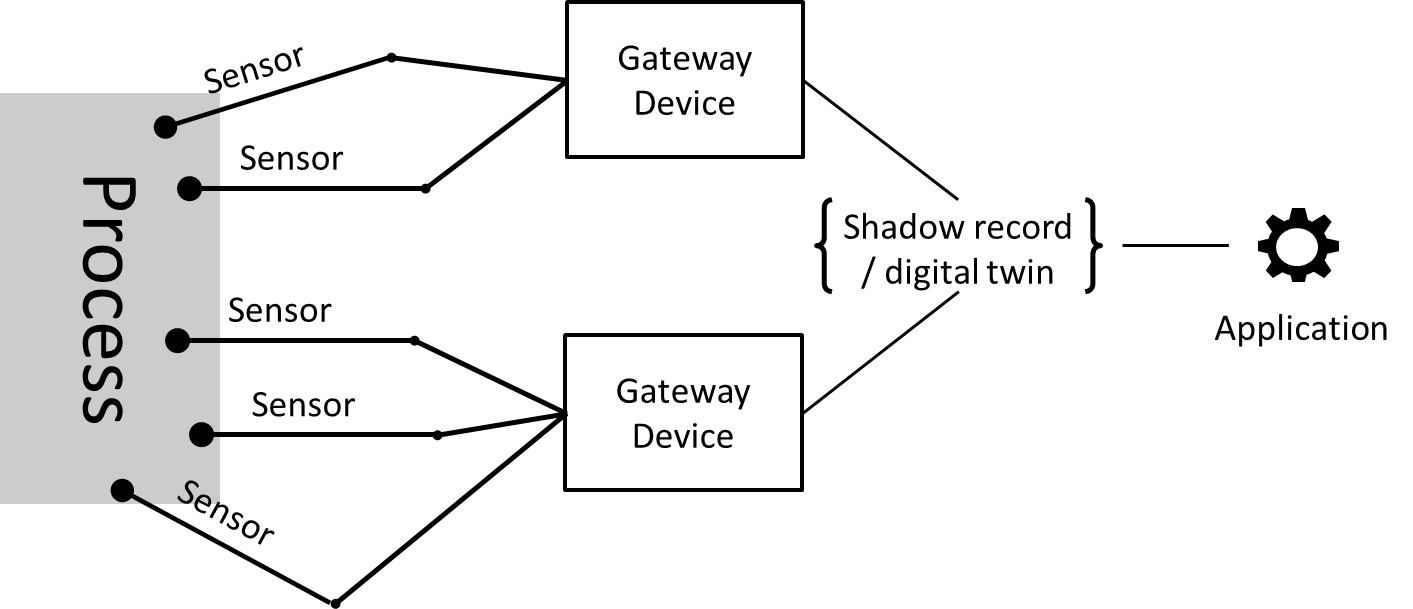
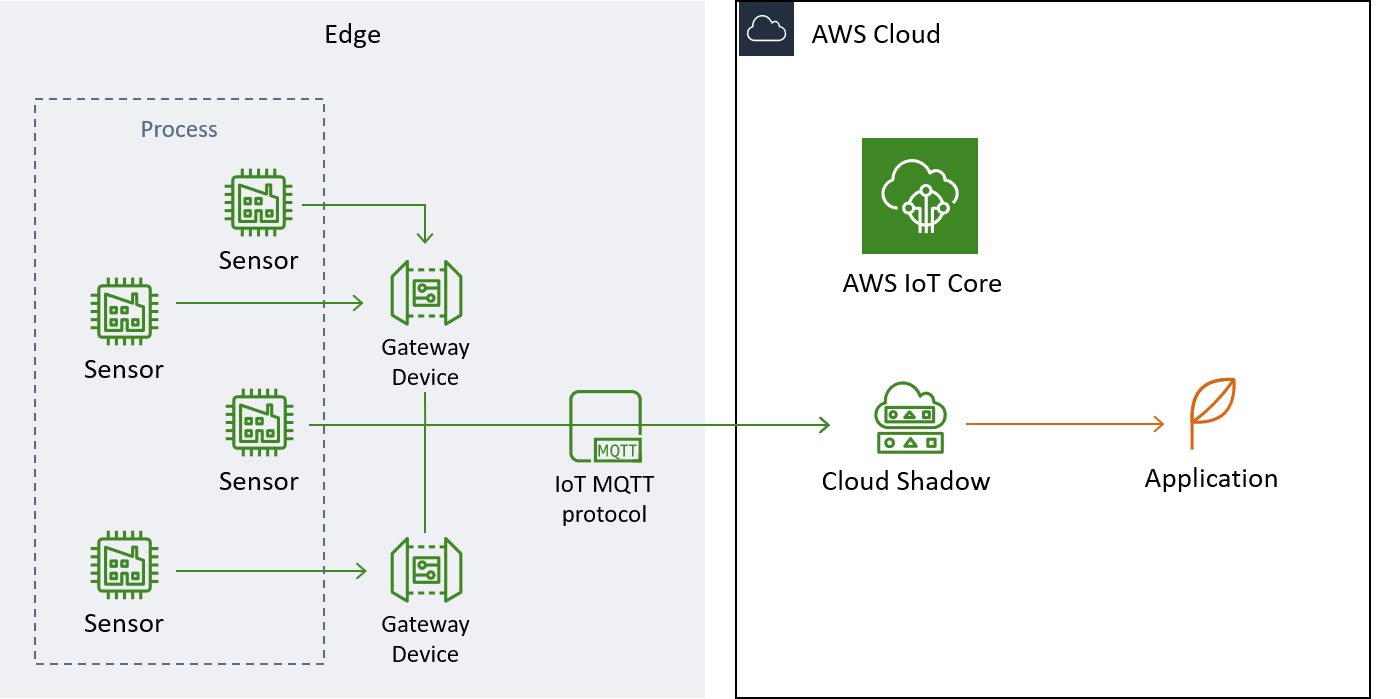
image overhaul

diff --git a/greengrass.md b/greengrass.md
@@ -1,10 +1,18 @@
 # Build an Edge with Greengrass
-It is time to create an edge, to take advantage of the compute that is available right where the data is gathered. Even if you use the AWS IoT services, there are several ways and plenty of 3<sup>rd</sup> party software you could apply for device management and creating an edge. The AWS offering is Greengrass, a piece of software running on your device and an accompanying cloud service. In this demonstration, we introduce key concepts in the context of an IoT edge using Greengrass.<br>
+It is time to create an edge, to take advantage of the compute that is available right where the data is gathered. Even if we use the AWS IoT services, there are several ways and plenty of 3<sup>rd</sup> party software we could apply for device management and creating an edge. The AWS offering is Greengrass, a piece of software running on our gateway device and an accompanying cloud service. In this demonstration, we introduce key concepts in the context of an IoT edge using Greengrass.<br>
 In this demonstration we will
 - Install AWS Greengrass Core on our Raspberry Pi
 - Register the Pi as a Core Device in the AWS Greengrass console
 - Connect a our sensor as a Thing through Greengrass, sending data to AWS IoT
-- Define a calculation in the cloud and deploy it onto the edge
+- Define a calculation in the cloud and deploy it onto the edge using a Lambda function in Greengrass
+<br>
+<div align="center">
+	<img width=500 src="images/greengrass_group_architecture.png" alt="iot setup">
+    <br>
+    This is the architecture we are building in this demonstration.
+	<br>
+</div>
+
 # Motivation
 When you walk through the demonstration it might seem like a lot of hassle and extra steps to go through before data is flowing and we reach what is essentially the same state as in previous demonstrations, where we just [published](publishing.md) readings and [subscribed](pubsub.md) directly in the script that also queried our sensor. Indeed, Greengrass is not intended for use with a single sensor. Imagine, however, that you are managing hundreds of sensors on a factory floor. The factory might be far away, or the gowning procedure might prohibit frequent visits, but even if your desk is right next to the manufacturing line, you still do not want to physically go there each time you deploy changes to sensor data streams, restart devices, define new signal processing, or update software. Greengrass allows you to define functionality in the cloud and deploy it to your device with a click.<br>
 Another important aspect of your IoT application to consider is cost. It is tempting to just send all raw data to storage in the cloud. Cloud storage is indeed inexpensive, but it is not free. What is worse, however, is the cost of compute. Cloud compute offers unprecedented flexibility, but it is expensive, so we generally want to use it to handle loads with varying intensity or low predictability, e.g. for hosting the application that uses data from the IoT setup. As an example of a case where you might quickly incur a large and unnecessary bill, imagine a set of vibration sensors. Vibration sensors are useful for predictive maintenance applications, since the patterns in vibrations from components like bearings and motors might be good predictors for the health of the component. An industrial grade vibration sensor might be able to sample acceleration thousands of times per second. If we were to store the data from just a few vibration sensors, we would quickly fill up enough storage to accomodate years worth of data from other sources like factory floor temperature and humidity. Furthermore, since it is not the accelleration itself but characteristics of the vibrations we are interested in, each time we use the data we would have to do signal processing and recalculate features. If we do that using cloud compute, we will work up quite a bill. The financially and environmentally responsible way to implement vibration sensors is to do the signal processing as close to the sampling point as possible and then only store the calculated features. We still want the flexibility of developing in the cloud and deploying to a remote device, however. While we will not work with signal processing in this demonstration, we will create an example of data transformation and deploy it from the cloud to the Raspberry Pi using Greengrass.<br>
@@ -53,12 +61,7 @@ sudo ./greengrassd start
 Greengrass Core will need to be running on your device in order to establish a connection between Core and the cloud. You can walk through the [AWS hello world cases](https://docs.aws.amazon.com/greengrass/latest/developerguide/module3-I.html) to familiarise yourself with Greengrass. We are going to do many of the same things in this demonstration but in a slightly different order and using our hardware setup instead of simulated devices.
 # Build a Greengrass Group
 During the setup, we created a Greengrass Group. The Group will eventually consist of one core device (in our case the Pi) and a variety of entities associated with the core. Our eventual goal is to have data sent from a thing that is associated with the core to the cloud. To reach that ambition we need to configure the thing, i.e. our sensor, a Lambda function that will move the data to the cloud, and subscriptions. We will go through each of these components in turn, starting with the thing.<br>
-<div align="center">
-	<img width=500 src="images/greengrass_group.png" alt="iot setup">
-    <br>
-    This is the architecture we are building, albeit with just one sensor.
-	<br>
-</div>
+
 
 ## Associate a Thing with a Greengrass Group
 To associate our thing, the sensor, with the core, we follow the [guidelines](https://docs.aws.amazon.com/greengrass/latest/developerguide/device-group.html "register a thing in Greengrass"), and go to AWS IoT > Greengrass > Groups, choose the group we just created, go to Devices, and click "Add Device". The creation procedure is similar to the procedure for any other Thing registered in AWS IoT. Indeed, after registering the device, you will be able to find it under the AWS IoT > Manage tab and you are even able to associate existing devices with a core. I actually reused the device from the [publishing](publishing.md#registering-the-sensor-in-iot-core) demonstration for this demo.<br>
@@ -225,19 +228,19 @@ This is all we need to republish. The full example with a few extra frills, such
 To create a Lambda function, we navigate to the AWS Lambda console. Under 'Functions' we click 'Create Function'.<br>
 In the wizard, choose 'Author from scratch', give your function a name, and choose your Python runtime. I named mine 'repub_temp' and have been using Python 3.7 for the example. Then we click 'Create Function'. This might take a moment.<br>
 <div align="center">
-	<img src="images/lambda_create.png" alt="iot setup">
+	<img width=500 src="images/lambda_create.png" alt="iot setup">
 	<br>
 </div>
 
 The next thing we need to do is to prepare our code for the Lambda function. So leave the console for a little while and locate the Python script we just created. Now download the [Greengrass SDK](https://github.com/aws/aws-greengrass-core-sdk-python/tree/master/greengrasssdk) folder. You only need the 'greengrasssdk' folder, not the examples, docs, etc. Now package the Greengrass SDK and the Python script into a .zip.<br>
 <div align="center">
-	<img src="images/lambda_package.png" alt="iot setup">
+	<img width=500 src="images/lambda_package.png" alt="iot setup">
 	<br>
 </div>
 
 Now jump back to the console and scroll down to the 'Function Code' window. In the 'Code entry type' dropdown, select the 'Upload a .zip file' option and upload the -zip file we just created. Also make sure to change the Handler to `<function file>.<your handler function>`, in the case of this example, it is `greengrass_simple_lambda.function_handler`. Click 'Save' to save the changes.
 <div align="center">
-	<img src="images/lambda_function_code.png" alt="iot setup">
+	<img width=500 src="images/lambda_function_code.png" alt="iot setup">
 	<br>
 </div>
 
@@ -249,7 +252,7 @@ Now scroll up and, under the 'Actions' dropdown, select 'Publish new version'. Y
 
 Now go to 'Actions' again and select 'Create alias'. Give the alias a name and point it to the version you just created. Greengrass does not support pointers to the `$latest` version, so make sure to select a specific version.<br>
 <div align="center">
-	<img src="images/lambda_alias.png" alt="iot setup">
+	<img width=500 src="images/lambda_alias.png" alt="iot setup">
 	<br>
 </div>
 
@@ -257,7 +260,7 @@ Now that our Lambda has been fully defined, we need to associate it with the Gre
 ### Attach a Lambda to Greengrass
 Navigate to the Greengrass console. Go to 'Groups' and select your Greengrass group. Then go to the 'Lambdas' menu and click 'Add Lambda'.<br>
 <div align="center">
-	<img src="images/greengrass_lambda_add.png" alt="iot setup">
+	<img width=500 src="images/greengrass_lambda_add.png" alt="iot setup">
 	<br>
 </div>
 
@@ -267,7 +270,7 @@ That is it for the Lambda. Now the final piece of the puzzle is ensuring that da
 Subscriptions is the way to configure where what data goes inside the Greengrass group. They specify the pubsub verticies between the things and Lambdas of the group and offer filtering capabilities.<br>
 To set up a subscription, go to the Greengrass console. Go to 'Groups' and select your Greengrass group. Then go to the 'Subscriptions' menu and click 'Add Subscription'.
 <div align="center">
-	<img src="images/greengrass_subscription_add.png" alt="iot setup">
+	<img width=500 src="images/greengrass_subscription_add.png" alt="iot setup">
 	<br>
 </div>
 
@@ -275,13 +278,13 @@ When setting up at subscription we are asked to specify the source and the targe
 For this demonstration specifically, we want to set up a subscription from our thing which generates and publishes data locally to the Lambda function we created. The thing can be found under the 'Devices' tab and the function under the 'Lambdas' tab.<br>
 Clicking 'Next' the first time will spawn a topic filter box. This is an optional filter you can specify to make data flows even more dynamic. I have given an example here, but it is not neccessary for the purposes of this demonstration. Click 'Next' again and 'Finish' to create the subscription.
 <div align="center">
-	<img src="images/greengrass_subscription_tolambda.png" alt="iot setup">
+	<img width=500 src="images/greengrass_subscription_tolambda.png" alt="iot setup">
 	<br>
 </div>
 
 We need one more subscription, namely the one telling Greengrass that we are publishing data from the Lambda function to the Cloud. We set up another subscription; this time setting the Lambda function as the source and 'IoT Cloud' as the target. Again we can specify an optional filter.
 <div align="center">
-	<img src="images/greengrass_subscription_fromlambda.png" alt="iot setup">
+	<img width=500 src="images/greengrass_subscription_fromlambda.png" alt="iot setup">
 	<br>
 </div>
 
@@ -300,7 +303,7 @@ sudo ./greengrassd start
 
 Now we are ready to deploy. Fortunately it is very simple to deploy everything we have specified. From our group in the Greengrass console, we are always within sight of the 'Action' dropdown menu which has a 'Deploy' option that we will now click on and utilise. If all goes well the status of our device will go from 'Is pending' to 'In progress' to 'Successfully completed'.
 <div align="center">
-	<img src="images/greengrass_deploy.png" alt="iot setup">
+	<img width=150 src="images/greengrass_deploy.png" alt="iot setup">
 	<br>
 </div>
 
@@ -319,7 +322,7 @@ python3.7 greengrass_thing.py -e <AWS IoT custom endpoint> -r <root CA> -c <thin
 ```
 And let us quickly look at whether it is working by going to the IoT test client. If we have done everythin correctly, we should not see any data published on the local topic from the sensor device. Rather, we should see data from the topic `republish/reading` topic that we defined in the Lambda script. Let us see.
 <div align="center">
-	<img src="images/greengrass_test.png" alt="iot setup">
+	<img width=500 src="images/greengrass_test.png" alt="iot setup">
 	<br>
 </div>
 
@@ -360,13 +363,13 @@ Scroll down a bit, find the 'Alias configuration', and point the alias to the ve
 Before we deploy, the Lambda will need some additional configuring. Per default, any Lambda will timeout after 3 seconds, but ours will be running for at least 8 seconds to get an average CPU temperature. Furthermore, Lambda functions running in Greengrass to not have access to local resources under `/sys`. We will need to change these defaults.<br>
 Go to the Greengrass console and select the group. Under the Lambda menu, click the three dots in the upper right of the Lambda function, we just modified and select 'Edit configuration'.
 <div align="center">
-	<img src="images/greengrass_lambda_configure.png" alt="iot setup">
+	<img width=500 src="images/greengrass_lambda_configure.png" alt="iot setup">
 	<br>
 </div>
 
 Set the timeout to 10 seconds and enable access to `/sys`.
 <div align="center">
-	<img src="images/greengrass_lambda_configurations.png" alt="iot setup">
+	<img width=500 src="images/greengrass_lambda_configurations.png" alt="iot setup">
 	<br>
 </div>
 

diff --git a/README.md b/README.md
@@ -32,20 +32,51 @@ The simplest way to do IoT with AWS. We will register our sensor as a thing in A
 In this case the Raspberry Pi is simply simulating a microcontroller that will query the sensor and publish the result.<br><br>
 [Get started here](publishing.md "simple publishing case").
 Here is the full [example script](simple_publishing.py "simple publishing example").
+<div align="center">
+	<img width="500" src="images/publishing_architecture.png" alt="IoT overview">
+  <br>
+  Schematic of the architecture we are building in the demonstration of publishing.
+</div>
+
 ## 2) Publish and Subscribe
 In this case, we build upon the previous case and will construct a setup where our device will not just send data but also respond to messages sent to it.<br>
 The Raspberry Pi is still just simulating a microcontroller, but we start to see how compute at the edge is useful and can be managed with AWS IoT.<br><br>
 [Get started here](pubsub.md "simple pub/sub case"). Here is the full [example script](simple_pubsub.py "simple pubsub example").
+<div align="center">
+	<img width="500" src="images/pubsub_architecture.png" alt="pubsub overview">
+  <br>
+  Schematic of the architecture we are building in the demonstration of publishing and subscribing.
+</div>
+
 ## 3) Utilise Thing Shadows
 Using the Thing Shadow feature of AWS IoT, we will create a twin/shadow of our device in the cloud and update it whenever a new reading is available. You can use this cool feature to build a digital twin of your process.<br>
 The Raspberry Pi is still simulating a microcontroller that will query the sensor, but instead of just publishing the result, it will update the Shadow document of the Thing.<br><br>
 [Get started here](shadow.md "Shadow case"). Here is the full [example script](shadow.py "shadow example").
+<div align="center">
+	<img width=500 src="images/shadow_architecture.png" alt="iot setup">
+	<br>
+  Schematic of the architecture we are building in the demonstration of Shadow functionality.
+</div>
+
 ## 4) Build an Edge with Greengrass
 Now our Pi will act the part of gateway device. The gateway device effectively represents an edge that is manageable from the cloud and where data transformations or calculations can happen. This could be signal processing, edge analytics, or even machine learning models. Greengrass is the AWS software offering for gateway devices. In this demonstration we will set up Greengrass on the Pi, connect a thing, our sensor, to Greengrass, and deploy a calculation from the cloud to the edge using a Lambda function.<br><br>
 [Get started here](greengrass.md "Greengrass case"). Here is the full [example script for a local device](greengrass_thing.py "Example of Thing for Greengrass") and the [Lambda function](greengrass_sys_lambda.py "Lambda example") we will deploy into Greengrass Core.
+<div align="center">
+	<img width=500 src="images/greengrass_group_architecture.png" alt="iot setup">
+    <br>
+    This is the architecture we are building in the demonstration of Greengrass functionality.
+	<br>
+</div>
+
 ## 5) Advanced Greengrass Features
 In this final demonstration, we will combine everything from the previous demonstrations to deploy a machine learning model from the cloud into Greengrass and do inference at the edge. This requires us to explore additional advanced features and configurations of Greengrass, but shows how, with a few means and a bit of engineering, we can achieve quite complex functionality.<br><br>
 [Get started here](greengrass_ml.md "Advanced Greengrass case"). This demonstration uses the same [example script for a local device](greengrass_thing.py "Example of Thing for Greengrass") as the previous but has two new examples of Lambda functions, [including one](ml_inference_lambda.py "ML inference Lambda") doing machine learning inference.
+<div align="center">
+	<img width=500 src="images/greengrass_ml_architecture.png" alt="Greengrass ML Demo Architechture">
+	<br>
+    This is the architechture of the application we will build in the demonstration of advanced Greengrass Features.
+</div>
+
 # IoT with AWS IoT
 This section has a bit of theoretical context for the demonstrations. We will try to explain and understand some core concepts of internet of things in the context of an industrial setting and AWS IoT. 
 ### Things
@@ -53,7 +84,7 @@ Let us start with the so called Things. In an industrial setting, a thing is oft
 Given this vague definition of things, an obvious question arises for those who have been in the manufacturing game for a while. Manufacturing processes are usually associated with process control loops. These include connecting key process parameters to a process logic controller (PLC) that in turn controls actuators to regulate the process. An example would be the flow of water through a pipe, measured by a flow sensor and regulated by the opening or closing of a valve. The question is: are these control loops also IoT? The answer is that they could be. The process parameters and the state of the valve are all potential things that when connected to the internet become things in the internet of things. The key difference between IoT and a control loop would be the internet connection. The PLC is there to do process control, not neccessarily to send or store data, and connecting it to the internet could be a major risk for the manufacturing process. In IoT we use dedicated devices to buffer and send data to storage in the cloud or somewhere else.<br>
 AWS is our cloud of choice for this tutorial. In AWS IoT Core, you can [register](https://docs.aws.amazon.com/iot/latest/developerguide/create-aws-thing.html "how to register a thing in AWS IoT Core") and manage your things. A thing is the highest level of granularity, and it makes sense to register each parameter you measure as a seperate thing. You can then aggregate and manage hierarchies of things using [groups and types](https://docs.aws.amazon.com/iot/latest/developerguide/iot-thing-management.html "about managing hierarchies of things").
 <div align="center">
-	<img style='height: 70%; width: 70%; object-fit: contain' src="images/iot_overview.png" alt="iot setup">
+	<img width=500 src="images/iot_overview.png" alt="iot setup">
 	<br>
 </div>
 

diff --git a/shadow.md b/shadow.md
@@ -14,9 +14,9 @@ while true
 ```
 We will then look at the shadow document using the AWS IoT test functionality.
 <div align="center">
-	<img height="270" src="images/shadow_flow.png" alt="iot setup">
+	<img width=500 src="images/shadow_architecture.png" alt="iot setup">
 	<br>
-  This is a general view of how a Shadow fits into the larger IoT. In this demonstration, we will show how gateway devices and applications can interact with the Shadow record.
+  Schematic of the architecture we are building in this demonstration.
 </div>
 
 # Basics of Device Shadows
@@ -291,20 +291,20 @@ Congratulations! You now know how to set up a shadow for your device and you are
 If our application just listens to the `/update/accepted` we will have achieved nothing more by going through the Shadow compared to just plain publishing. The real power of Shadows is in always having the latest reading from our device available, while decoupling the device and the application.<br>
 Now that we are having the device update its Shadow each time a new reading is available, we can start having our application access that Shadow document whenever it needs it. We can always view the shadow document of our thing by going to AWS IoT > Manage > Things, then selecting our device and go to the 'Shadow' tab
 <div align="center">
-	<img src="images/aws_shadow_document.png" alt="shadow document">
+	<img width=500 src="images/aws_shadow_document.png" alt="shadow document">
   <br>
 </div>
 
 This is nice for demonstration and debugging purposes, but our application needs to access the document programatically. The MQTT protocol does not do requests, and operates using the publish and subscribe model only. So the way for our application to request the Shadow document on demand is to publish a request to a specific topic and subscribe to a response topic. Note that there is an alternative based on a REST API, which we will discuss in a [section](shadow.md#in-production) below, but for now we will stick to the MQTT way.
 By sending an empty request, `{}`, to the topic `$aws/things/yourDevice/shadow/get` our application can trigger the shadow to publish a copy of the current shadow document to the subject `$aws/things/yourDevice/shadow/get/accepted`. The easiest way to see it in action is by subscribing to the `$aws/things/yourDevice/shadow/get/#` topicfilter in the test console and then publish an empty message to `/get`. I gave it a try here
 <div align="center">
-	<img src="images/aws_shadow_get.png" alt="shadow get">
+	<img width=500 src="images/aws_shadow_get.png" alt="shadow get">
   <br>
 </div>
 
 This is also an excellent opportunity to explore what happens, when we do something unexpected. Here I published a string instead of a JSON, for instance:
 <div align="center">
-	<img src="images/aws_shadow_get_rejected.png" alt="shadow get">
+	<img width=500 src="images/aws_shadow_get_rejected.png" alt="shadow get">
   <br>
 </div>
 
@@ -312,12 +312,12 @@ The `/get` topic also has a `/rejected` subtopic that gives helpful error messag
 ## Delete the Shadow
 You might have guessed this next topic group. We now know how to update and get the shadow document. Now we just need to know how to delete it. By publishing an empty message to the topic `$aws/things/yourDevice/shadow/delete` we delete the shadow document for `yourDevice`. On successful deletion, a confirmation is published to `/delete/accepted` and a message is published to `/delete/rejected` otherwise. Let us try to delete the shadow, then try to get, and see what happens:
 <div align="center">
-	<img src="images/aws_shadow_delete.png" alt="shadow delete">
+	<img width=500 src="images/aws_shadow_delete.png" alt="shadow delete">
   <br>
 </div>
 <br>
 <div align="center">
-	<img src="images/aws_shadow_delete_get.png" alt="shadow delete get">
+	<img width=500 src="images/aws_shadow_delete_get.png" alt="shadow delete get">
   <br>
 </div>
 
@@ -374,6 +374,12 @@ This will send an update to the reported temperature state of the Shadow documen
 This section is not part of the demonstration as such. It is but a short discussion of some of the considerations we might take when bringing the Shadow feature into production. There are not many addtional considerations besides those discussed for [publishing](publishing.md#in-production) and [subscribing](pubsub.md#in-production), but here are some of them.
 ## Decouple Application and Data Stream
 In order for Shadows to be a boon and not just an added operational burden, it is important that we develop applications that utilise it properly. An example of an application that might benefit greatly from using Shadows is one that relies on machine learning models to predict outcomes for displaying or acting on. A machine learning algorithm needs all its features at the same time to produce a prediction, whereas the physical reality of our sensing equipment is that different features are reported at differing times and at different frequencies. Instead of having a large layer of business logic in front of the machine learning algorithm, the application could just serve the latest values as stored in the Shadow. This effectively decouples the data stream and the machine learning model, ensuring that our application can keep running even if a device is broken.
+<div align="center">
+	<img width=500 src="images/shadow_flow.png" alt="iot setup">
+	<br>
+  This is a general view of how a Shadow could fit into the larger IoT.
+</div>
+
 ## Shadow HTTP Interactions
 Chances are that we do not want our application to deal with the MQTT protocol. The publish subscribe model works well for the IoT part where data is flowing to and from multiple sources to multiple targets. Our application, however, often just needs the latest piece of data, and it is a bit of hassle to deal with an MQTT client, publishing, and subscribing just to get a single piece of data once in a while.<br>
 One of the major advantages of the Shadow functionality is that each Shadow exposes a [REST API](https://docs.aws.amazon.com/iot/latest/developerguide/device-shadow-rest-api.html) to which we can send regular HTTP requests and retrieve data.<br>

diff --git a/publishing.md b/publishing.md
@@ -11,10 +11,10 @@ while true
 ```
 For the demonstration we will be using the Bosch BME680 air quality sensor connected to a Raspberry Pi model 3B. The BME680 does four different measurements, but for this case we will only be measuring and publishing the temperature. The Pi is just there to query the sensor and run the AWS IoT SDK. It essentially plays the part of a microcontroller, and so anything we accomplish here can be done with a microcontroller or any other compute device. In the final section of this demonstration we will discuss some of the additional considerations for a similar setup in an actual industrial setting.
 <div align="center">
-	<img height="200" src="images/iotaws_overview.png" alt="IoT overview">
+	<img height="200" src="images/publishing_architecture.png" alt="IoT overview">
 	<img height="200" src="images/hardware_setup.jpg" alt="Hardware setup">
   <br>
-  Schematic of the setup we are emulating in this demonstration and a picture of the actual hardware I used for developing the examples.
+  Schematic of the architecture we are building in this demonstration and a picture of the actual hardware I used for developing.
 </div>
 
 # Registering the Sensor in IoT Core
@@ -183,9 +183,17 @@ Published topic bme680/temperature: {"status": "success", "timestamp_utc": "2020
 Published topic bme680/temperature: {"status": "success", "timestamp_utc": "2020-02-15T16:43:18.519356Z", "value": 21.57999999999999, "sequence": 27}
 ```
 But the most interesting part, of course, is whether the data gets to AWS. Let us say that we published to the topic `BME680/temperature`. We can open the AWS Console, go to IoT Core, and find the Test tab. Here we can subscribe to a topic. When I type in the topic `BME680/temperature`, 
-![test client](images/aws_iot_test_simple_publish.PNG)
+<div align="center">
+	<img width=500 src="images/aws_iot_test_simple_publish.PNG" alt="iot setup">
+	<br>
+</div>
+
 I get the messages sent from the Pi.
-![test client](images/aws_iot_message_simple_publish.PNG)
+<div align="center">
+	<img width=500 src="images/aws_iot_message_simple_publish.PNG" alt="iot setup">
+	<br>
+</div>
+
 Congratulations, you are now publishing to AWS IoT! From here the messages can be redirected to whereever you want using AWS SNS, for instance to AWS Kinesis.<br>
 # In Production
 This section is not part of the demonstration as such. It is but a short discussion of some of the considerations we have to take when bringing an IoT device to production in a manufacturing environment and how to improve upon the example to make it production ready.

diff --git a/pubsub.md b/pubsub.md
@@ -12,11 +12,11 @@ while true
     pack it up
     publish it
 ```
-For the demonstration are once again using the Bosch BME680 air quality sensor connected to a Raspberry Pi model 3B. The BME680 does four different measurements, and we will utilise the temperature, pressure, and humidity sensing capabilities. The Pi is just there to query the sensor and run the AWS IoT SDK. It essentially plays the part of a microcontroller, and so anything we accomplish here can be done with a microcontroller or any other compute device. In the final section of this demonstration we will discuss some of the additional considerations for a similar setup in an actual industrial setting.
+For the demonstration, are once again using the Bosch BME680 air quality sensor connected to a Raspberry Pi model 3B. The BME680 does four different measurements, and we will utilise the temperature, pressure, and humidity sensing capabilities. The Pi is just there to query the sensor and run the AWS IoT SDK. It essentially plays the part of a microcontroller, and so anything we accomplish here can be done with a microcontroller or any other compute device. In the final section of this demonstration we will discuss some of the additional considerations for a similar setup in an actual industrial setting.
 <div align="center">
-	<img height="200" src="images/iotaws_pubsub.png" alt="pubsub overview">
+	<img width="500" src="images/pubsub_architecture.png" alt="pubsub overview">
   <br>
-  Schematic of the setup we are emulating in this demonstration.
+  Schematic of the architecture we are building in this demonstration. Note the two-way communication between IoT Core and our Thing.
 </div>
 
 Connecting to AWS IoT and publishing messages were covered in the [previous](https://github.com/AnHosu/iot_poc/blob/master/publishing.md "simple publishing") demonstration. In this demonstration, we focus on subscribing to messages and combining publishing and subscribing within one client.
@@ -118,7 +118,7 @@ python simple_subscribing.py -e <your aws iot endpoint> -r <file containing root
 ```
 Nothing happens before we start publishing messages to our topic of choice. I ran the example on my Pi, using the topic `/bme680/actions`. I then moved to the test suite at AWS IoT Core > Test, and published a message to that topic.<br>
 <div align="center">
-	<img src="images/aws_iot_test_simple_subscribe.PNG" alt="shadow delete">
+	<img width=500 src="images/aws_iot_test_simple_subscribe.PNG" alt="shadow delete">
   <br>
 </div>
 
